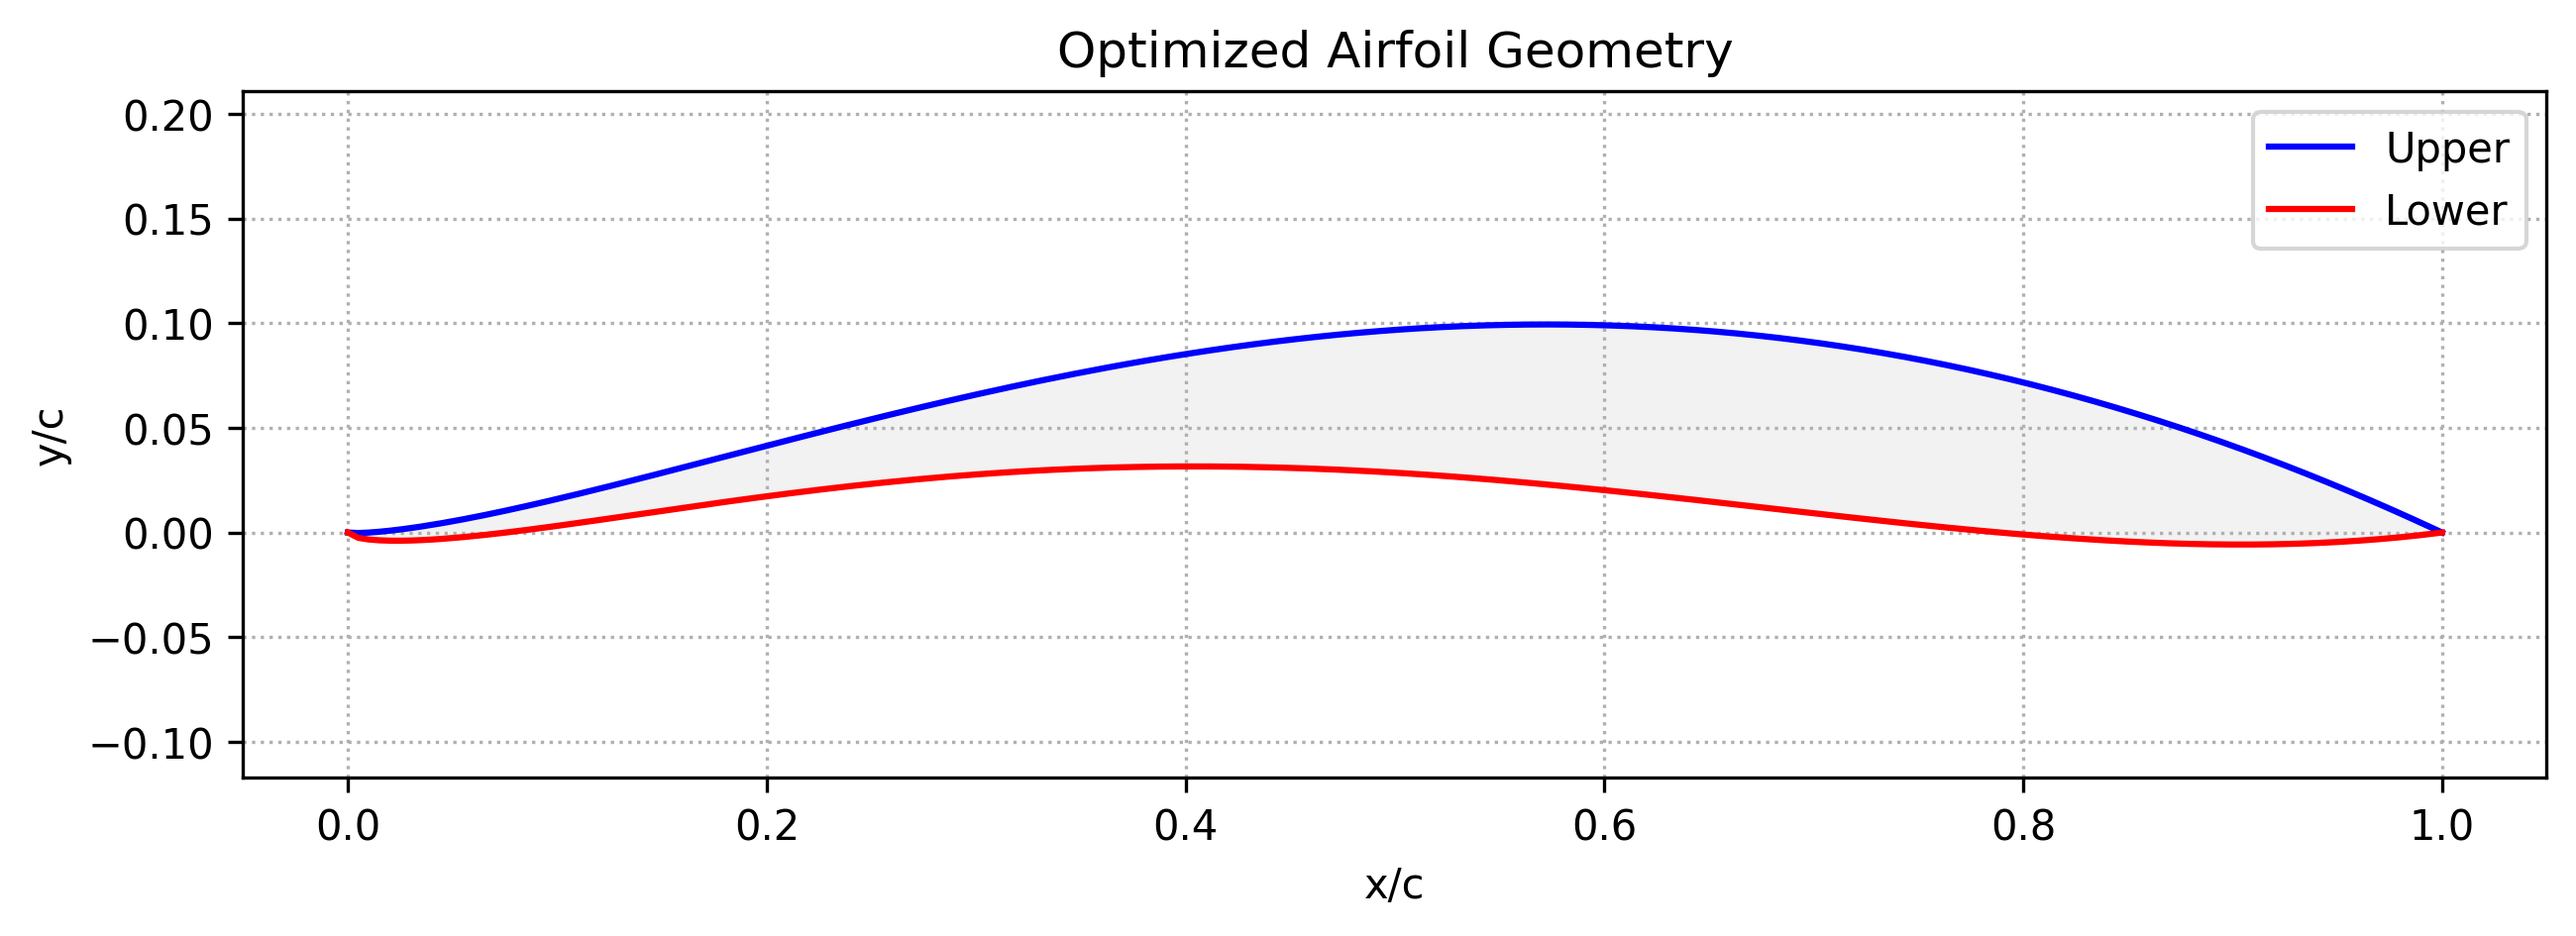
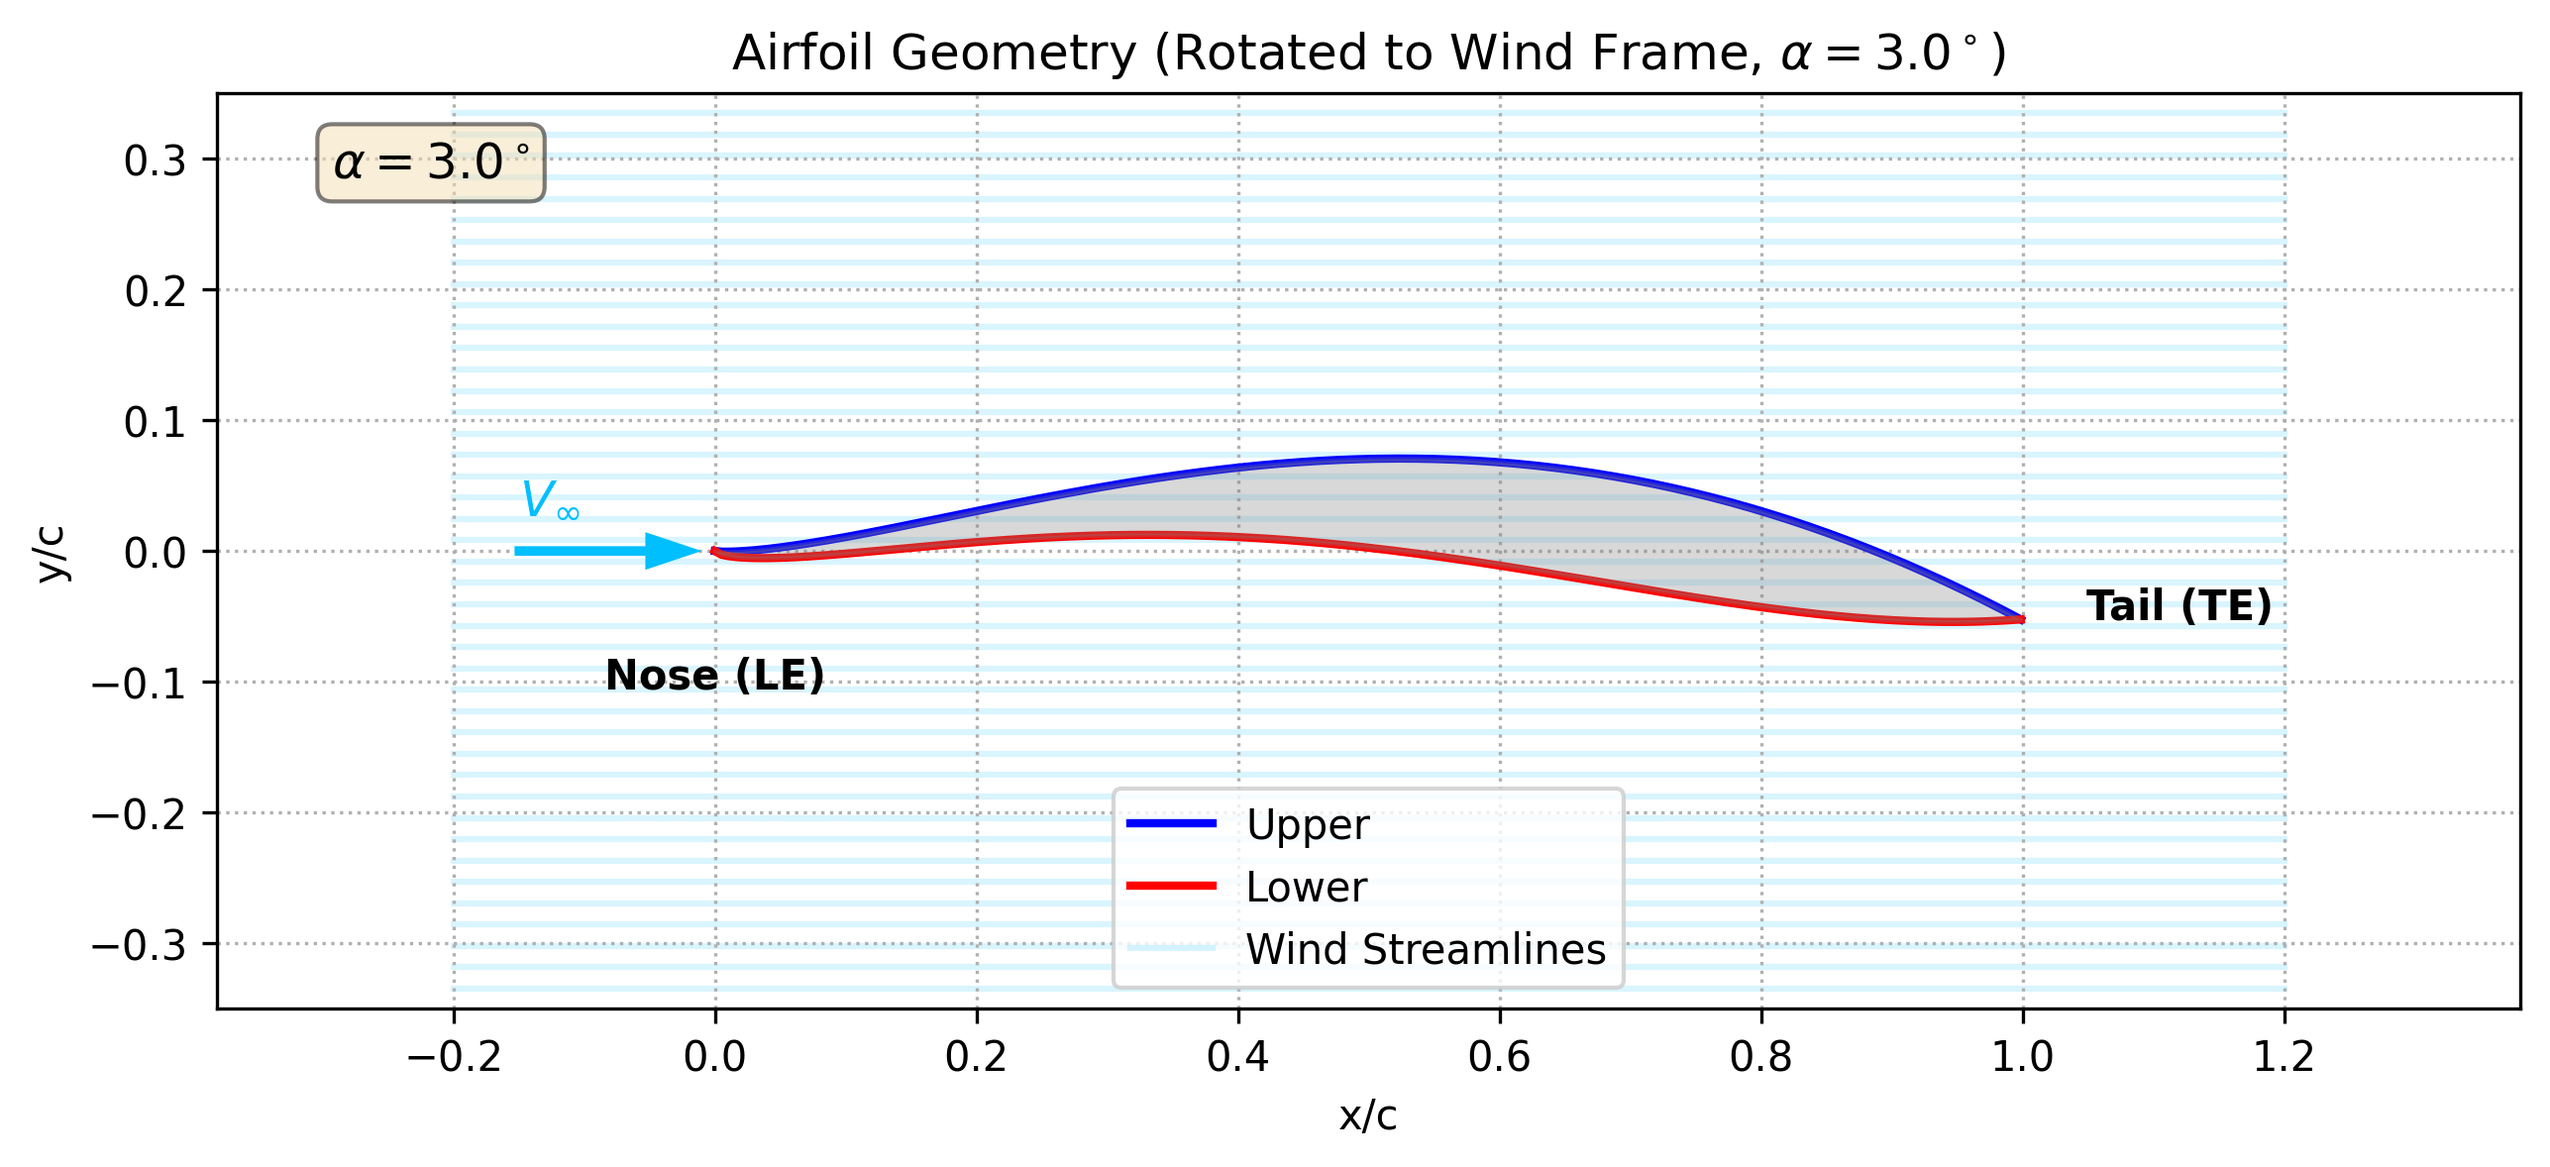
ZEUB

diff --git a/experiments/plot_airfoil.py b/experiments/plot_airfoil.py
@@ -101,7 +101,7 @@ from utils.cst import cst_airfoil
 from utils.xfoil_runner import run_xfoil_polar
 from utils.geometry import write_dat
 
-def plot_geometry(best_vec, out_csv: str = None):
+def plot_geometry(best_vec, out_csv: str = None, alpha: float = 3.0):
     if plt is None: return None
     
     # CST parameters
@@ -109,18 +109,72 @@ def plot_geometry(best_vec, out_csv: str = None):
     Al = best_vec[3:]
     
     # Generate coordinates for plotting (more points for smoothness)
-    # cst_airfoil returns (x, yu, x, yl) -> we need x, yu, yl
-    # Signature: cst_airfoil(n_points, coeffs_upper, coeffs_lower)
     x, yu, xl, yl = cst_airfoil(200, Au, Al)
     
-    fig, ax = plt.subplots(figsize=(10, 3))
-    ax.plot(x, yu, 'b-', label='Upper')
-    ax.plot(x, yl, 'r-', label='Lower')
-    ax.fill_between(x, yu, yl, color='gray', alpha=0.1)
+    # Rotation for "Wind Tunnel View" (Wind Horizontal)
+    # To generate Lift (Alph=3 deg) with L->R wind, the Nose should be Higher than the Tail (relative to horizontal).
+    # This exposes the bottom surface to the wind.
+    # Current coords: LE at (0,0), TE at (1,0).
+    # We want TE to be LOWER than LE (Visual Nose Up).
+    # So we rotate by -Alpha.
+    
+    rad = np.radians(-alpha) # Negative to pitch Nose Up (Tail Down)
+    c, s = np.cos(rad), np.sin(rad)
+    R = np.array([[c, -s], [s, c]])
+    
+    # Rotate Upper Surface
+    # Stack (N, 2)
+    pts_u = np.column_stack([x, yu])
+    pts_u_rot = pts_u @ R.T
+    xu_rot, yu_rot = pts_u_rot[:, 0], pts_u_rot[:, 1]
+    
+    # Rotate Lower Surface
+    pts_l = np.column_stack([x, yl])
+    pts_l_rot = pts_l @ R.T
+    xl_rot, yl_rot = pts_l_rot[:, 0], pts_l_rot[:, 1]
+    
+    fig, ax = plt.subplots(figsize=(10, 4)) # Taller for rotation
+    
+    # Plot Airfoil
+    ax.plot(xu_rot, yu_rot, 'b-', label='Upper', linewidth=2)
+    ax.plot(xl_rot, yl_rot, 'r-', label='Lower', linewidth=2)
+    ax.fill_between(xu_rot, yu_rot, yl_rot, color='gray', alpha=0.3, zorder=10)
+    
+    # Explicit Labels for Nose/Tail
+    ax.text(xu_rot[0], yu_rot[0]-0.08, "Nose (LE)", color='black', fontweight='bold', ha='center', va='top')
+    ax.text(xl_rot[-1]+0.05, yl_rot[-1], "Tail (TE)", color='black', fontweight='bold', ha='left')
+    
+    # Draw Wind Streamlines (Horizontal)
+    x_min, x_max = -0.2, 1.2
+    y_min, y_max = -0.4, 0.4
+    
+    # 50 Lines
+    y_lines = np.linspace(y_min, y_max, 50)
+    
+    first_line = True
+    for y_line in y_lines:
+        # Label only the first line to avoid legend duplication
+        lbl = 'Wind Streamlines' if first_line else None
+        
+        ax.plot([x_min, x_max], [y_line, y_line], color='deepskyblue', alpha=0.15, lw=1.5, zorder=0, label=lbl)
+        first_line = False
+
+    # Add Velocity Vector Label
+    ax.arrow(-0.15, 0.0, 0.1, 0.0, head_width=0.02, color='deepskyblue', lw=2, zorder=20)
+    ax.text(-0.15, 0.03, r"$V_{\infty}$", color='deepskyblue', fontsize=12, fontweight='bold')
+
     ax.axis('equal')
+    ax.set_xlim(-0.2, 1.2)
+    ax.set_ylim(-0.35, 0.35)
     ax.set_xlabel("x/c")
     ax.set_ylabel("y/c")
-    ax.set_title("Optimized Airfoil Geometry")
+    ax.set_title(f"Airfoil Geometry (Rotated to Wind Frame, $\\alpha={alpha}^\circ$)")
+    
+    # Add Alpha Text Box
+    text_str = f"$\\alpha = {alpha}^\circ$"
+    props = dict(boxstyle='round', facecolor='wheat', alpha=0.5)
+    ax.text(0.05, 0.95, text_str, transform=ax.transAxes, fontsize=12,
+            verticalalignment='top', bbox=props)
     ax.grid(True, linestyle=":")
     ax.legend()
     

diff --git a/utils/regenerate_plots.py b/utils/regenerate_plots.py
@@ -1,0 +1,56 @@
+
+import os
+import glob
+import json
+import numpy as np
+import sys
+
+# Ensure project root is in path
+sys.path.append(os.getcwd())
+
+from experiments import plot_airfoil
+
+def regenerate_all_plots():
+    print("--- Regenerating all plots for Part B ---")
+    
+    # Pattern: data/PartB/*/results/*_best.json
+    results_dir = os.path.join("data", "PartB", "*", "results", "*_best.json")
+    files = glob.glob(results_dir)
+    
+    if not files:
+        print("No result files found in data/PartB/*/results/")
+        return
+
+    print(f"Found {len(files)} result files.")
+    
+    for json_path in files:
+        print(f"Processing: {os.path.basename(json_path)}")
+        
+        # Load Data
+        with open(json_path, 'r') as f:
+            data = json.load(f)
+            
+        best_vec = np.array(data["x"])
+        
+        # Corresponding CSV path (swap .json with .csv)
+        csv_path = json_path.replace("_best.json", ".csv")
+        
+        try:
+            # Re-run plotting functions
+            # 1. Geometry (Updated with Alpha)
+            plot_airfoil.plot_geometry(best_vec, out_csv=csv_path, alpha=3.0)
+            
+            # 2. Coefficients
+            plot_airfoil.plot_coeff_bar(best_vec, Re=1e6, alpha=3.0, out_csv=csv_path)
+            
+            # 3. Polar (Benchmarks full range)
+            # plot_airfoil.plot_polar(best_vec, Re=1e6, out_csv=csv_path) 
+            # Note: Polar takes time (XFOIL loop). Uncomment if needed, but geometry is instant.
+            
+            print("  > Plots updated.")
+            
+        except Exception as e:
+            print(f"  > Failed to plot {json_path}: {e}")
+
+if __name__ == "__main__":
+    regenerate_all_plots()
